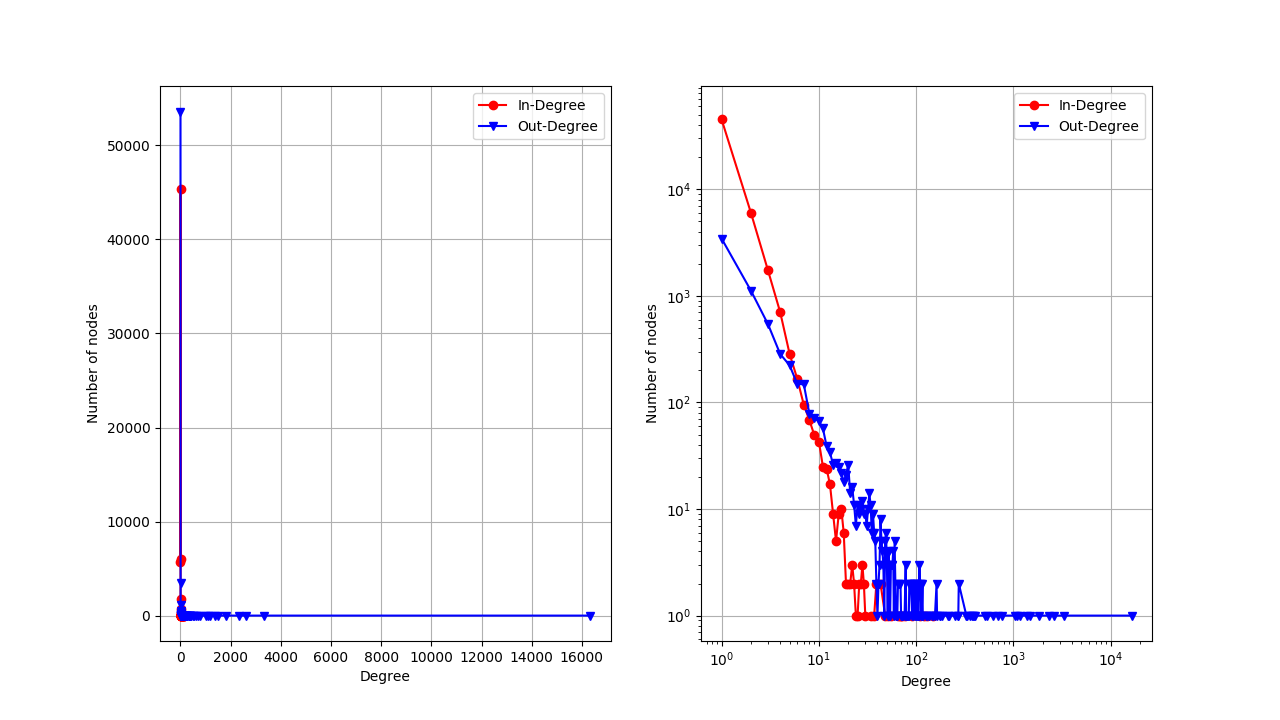
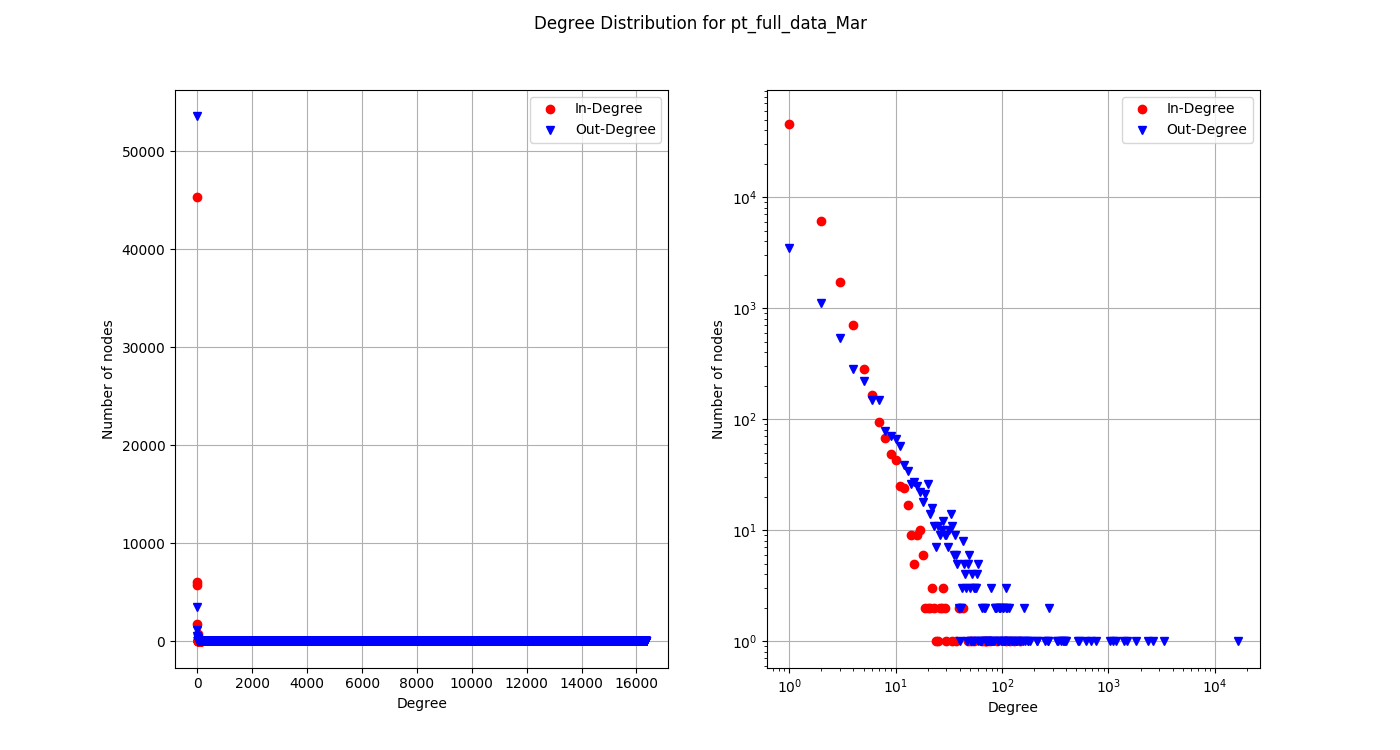
optimized network analysis using graph-tool

diff --git a/Proj2/network_analysis.py b/Proj2/network_analysis.py
@@ -3,27 +3,34 @@ import networkx as nx
 import pylab as plt
 from collections import Counter
 import argparse
+from graph_tool.all import *
 
 def extract_network(filename):
 	dataset = pd.read_csv(filename)
-	graph = dataset[["user_id_str","retweeted_user_id_str"]]
-	net = nx.from_pandas_dataframe(graph, "retweeted_user_id_str", "user_id_str", create_using=nx.MultiDiGraph())
+	graph = dataset[["retweeted_user_id_str","user_id_str"]]
+	# networkx version
+	# net = nx.from_pandas_dataframe(graph, "retweeted_user_id_str", "user_id_str", create_using=nx.MultiDiGraph())	
+	net = Graph()
+	vmap = net.add_edge_list(graph.values, hashed=True)
 	net.name = filename.split("/")[1][:-4]
-	print(nx.info(net))
+	# print(nx.info(net))
 	return net
 
 def do_degree_stuff(graph):
-	in_degrees = dict(graph.in_degree())
-	in_values = sorted(set(in_degrees.values()))
-	in_counts = Counter(in_degrees.values())
-	in_hist = [in_counts[x] for x in in_values]
+	# networkx version
+	# in_degrees = dict(graph.in_degree())
+	# in_values = sorted(set(in_degrees.values()))
+	# in_counts = Counter(in_degrees.values())
+	# in_hist = [in_counts[x] for x in in_values]
+	# out_degrees = dict(graph.out_degree())
+	# out_values = sorted(set(out_degrees.values()))
+	# out_counts = Counter(out_degrees.values())
+	# out_hist = [out_counts[x] for x in out_values]
 
-
-	out_degrees = dict(graph.out_degree())
-	out_values = sorted(set(out_degrees.values()))
-	out_counts = Counter(out_degrees.values())
-	out_hist = [out_counts[x] for x in out_values]
-
+	in_vals_hist = vertex_hist(graph,"in")
+	out_vals_hist = vertex_hist(graph,"out")
+	in_values, in_hist = in_vals_hist[1][:-1], in_vals_hist[0]
+	out_values, out_hist = out_vals_hist[1][:-1], out_vals_hist[0]
 
 	fig = plt.figure()
 	fig.set_figheight(7.5)
@@ -57,5 +64,5 @@ if __name__ == '__main__':
 	parser.add_argument("dataset",help="dataset to be processed")
 	args = parser.parse_args()
 
-	#graph = extract_network(args.dataset)
-	#do_degree_stuff(graph)
+	graph = extract_network(args.dataset)
+	do_degree_stuff(graph)
